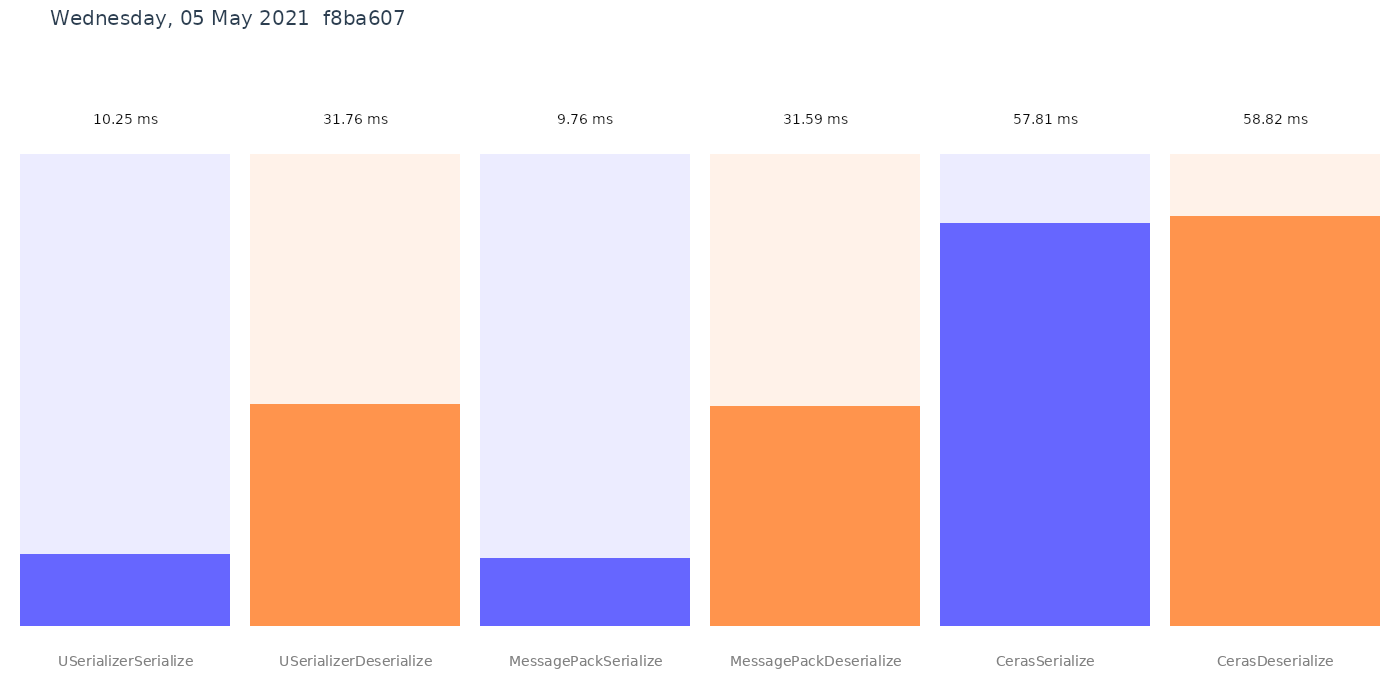
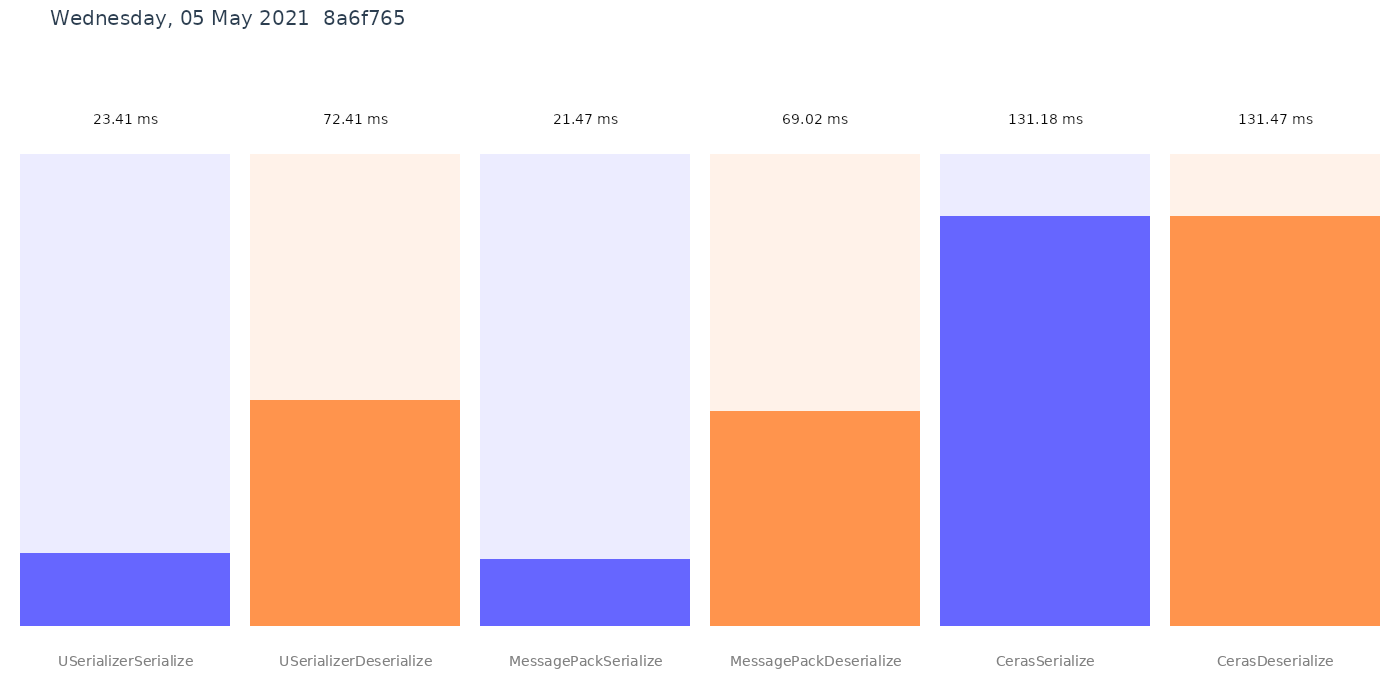
deploy: 8a6f76594e05bf744d5a731bea5fdfca42e3b117

diff --git a/performance.md b/performance.md
@@ -1,7 +1,7 @@
 ``` ini
 
 BenchmarkDotNet=v0.12.1, OS=ubuntu 20.04
-Intel Xeon Platinum 8171M CPU 2.60GHz, 1 CPU, 2 logical and 2 physical cores
+Intel Xeon CPU E5-2673 v4 2.30GHz, 1 CPU, 2 logical and 2 physical cores
 .NET Core SDK=5.0.202
   [Host]   : .NET Core 5.0.5 (CoreCLR 5.0.521.16609, CoreFX 5.0.521.16609), X64 RyuJIT
   ShortRun : .NET Core 5.0.5 (CoreCLR 5.0.521.16609, CoreFX 5.0.521.16609), X64 RyuJIT
@@ -10,11 +10,11 @@ Job=ShortRun  IterationCount=3  LaunchCount=1
 WarmupCount=3  
 
 ```
-|                 Method |      Mean |     Error |    StdDev |
-|----------------------- |----------:|----------:|----------:|
-|   USerializerSerialize | 10.249 ms |  2.939 ms | 0.1611 ms |
-| USerializerDeserialize | 31.758 ms |  7.074 ms | 0.3878 ms |
-|   MessagePackSerialize |  9.764 ms |  2.166 ms | 0.1187 ms |
-| MessagePackDeserialize | 31.585 ms |  4.936 ms | 0.2706 ms |
-|         CerasSerialize | 57.809 ms | 18.142 ms | 0.9944 ms |
-|       CerasDeserialize | 58.821 ms |  6.750 ms | 0.3700 ms |
+|                 Method |      Mean |     Error |   StdDev |
+|----------------------- |----------:|----------:|---------:|
+|   USerializerSerialize |  23.41 ms |  2.824 ms | 0.155 ms |
+| USerializerDeserialize |  72.41 ms | 45.987 ms | 2.521 ms |
+|   MessagePackSerialize |  21.47 ms |  1.757 ms | 0.096 ms |
+| MessagePackDeserialize |  69.02 ms | 10.471 ms | 0.574 ms |
+|         CerasSerialize | 131.18 ms | 18.195 ms | 0.997 ms |
+|       CerasDeserialize | 131.47 ms | 28.968 ms | 1.588 ms |
